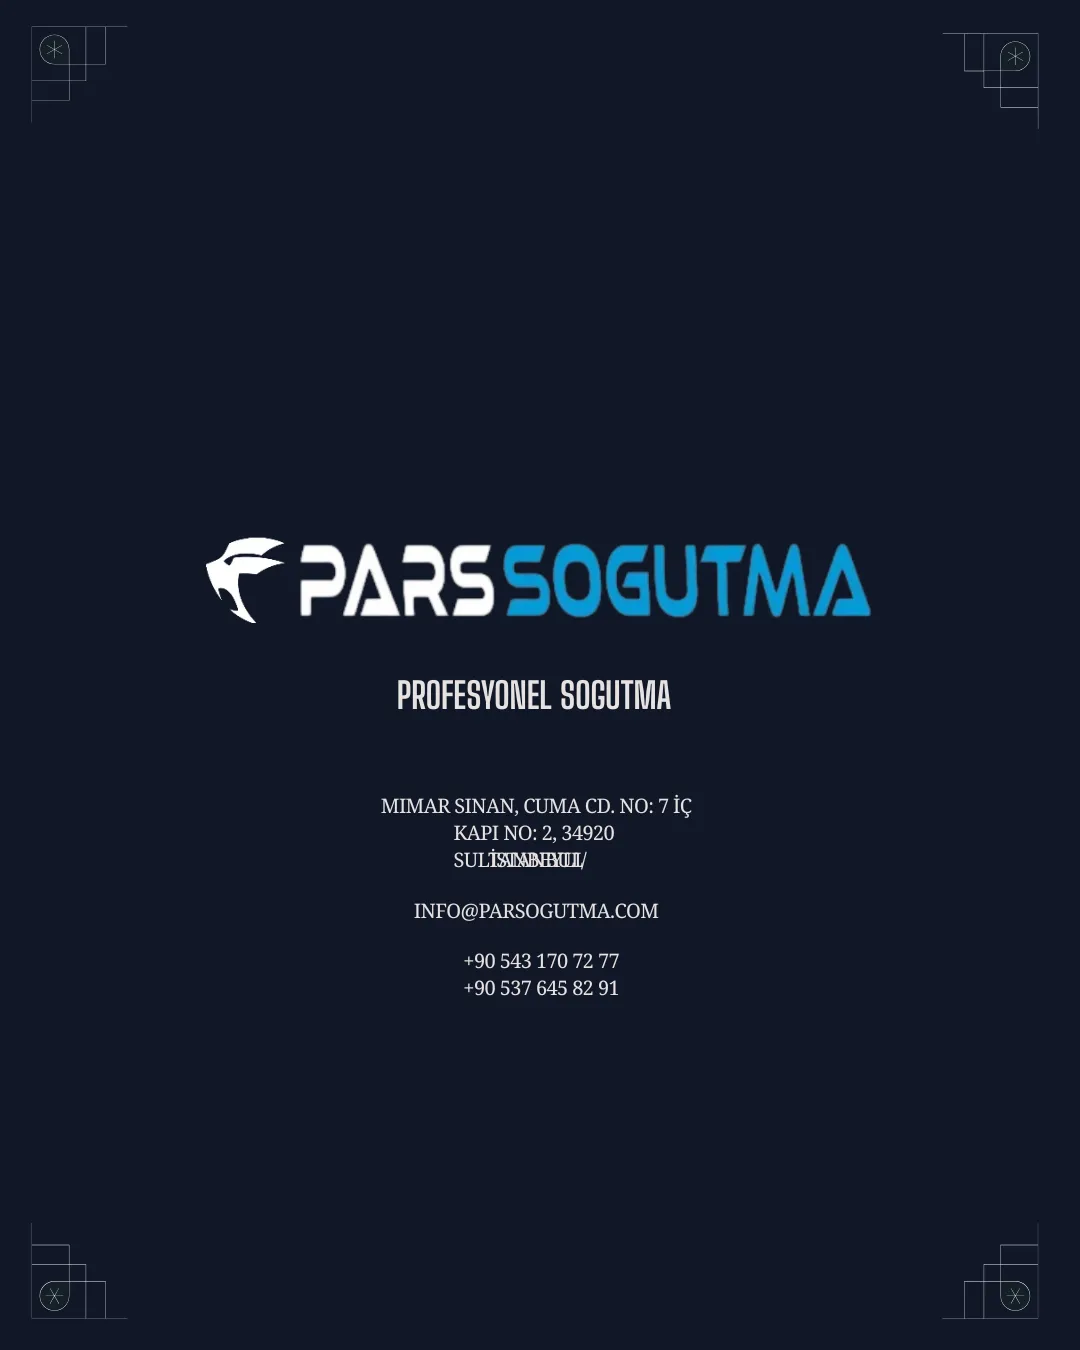
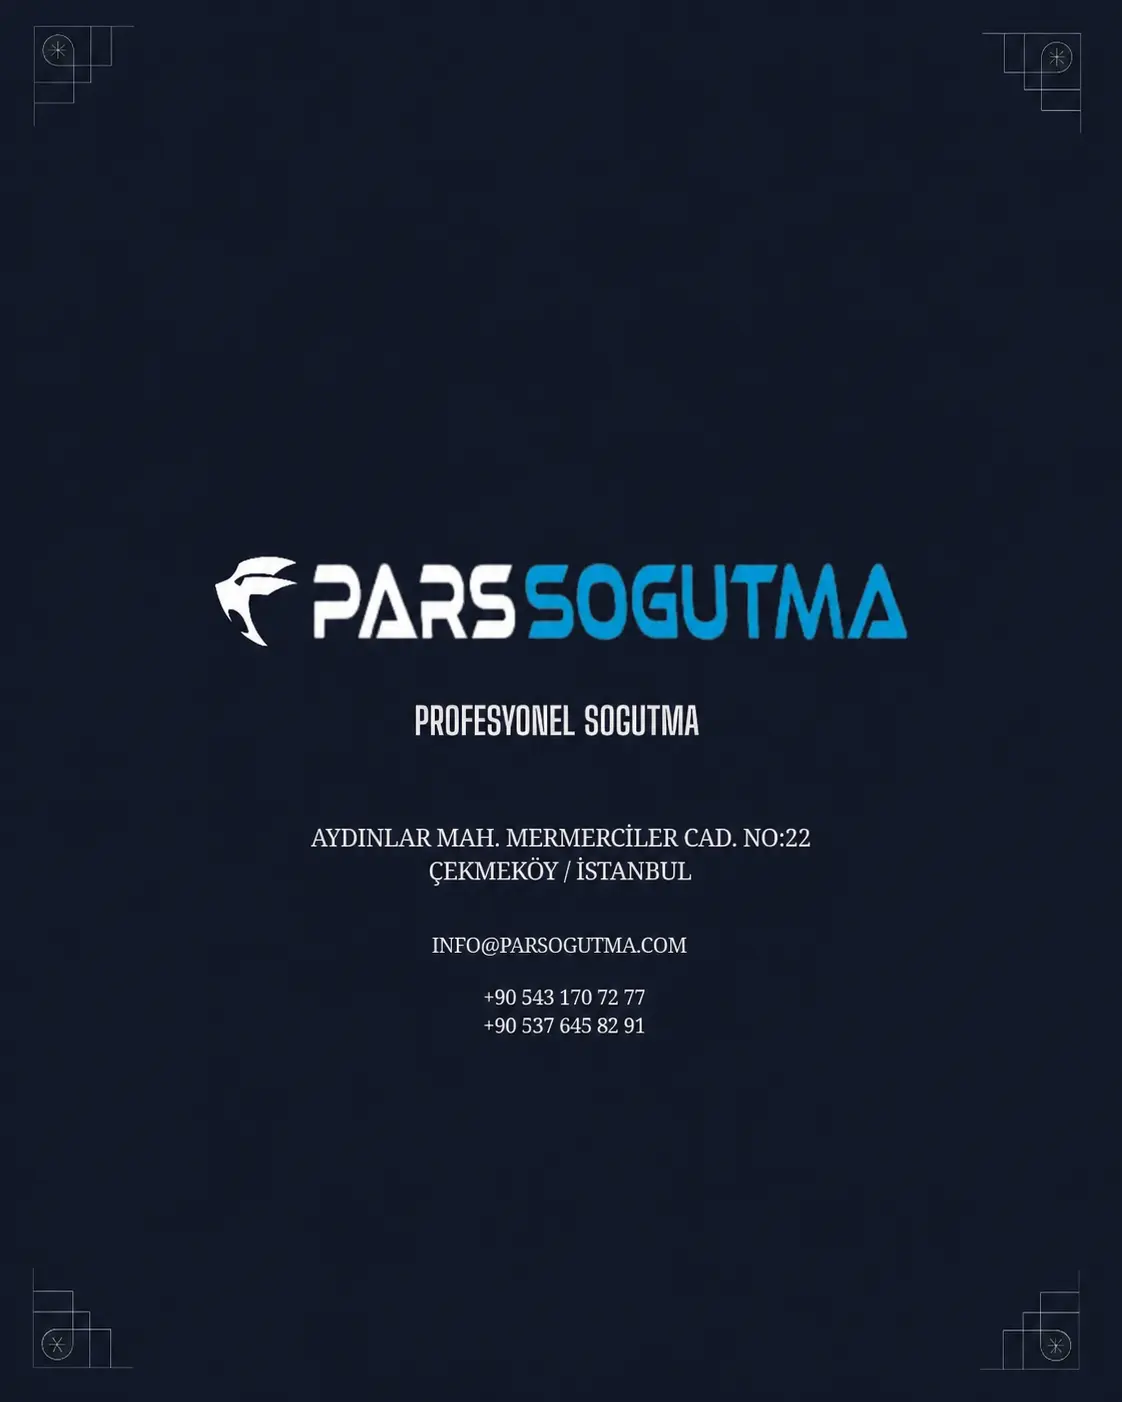
Refactor : Adress Change

diff --git a/src/pages/Contact.tsx b/src/pages/Contact.tsx
@@ -38,7 +38,7 @@ export default function Contact() {
                 {(
                     <iframe
                         title="Pars Soğutma Konum Haritası"
-                        src="https://www.google.com/maps/embed?pb=!1m14!1m8!1m3!1d895.3683344167697!2d29.269102942284555!3d40.989186053399436!3m2!1i1024!2i768!4f13.1!3m3!1m2!1s0x14cacf694dfd5897%3A0xcd8ea58029f9d9f!2sPars%20So%C4%9Futma%20Ekipmanlar%C4%B1%20Ltd.%20%C5%9Eti.!5e0!3m2!1str!2str!4v1743767405972!5m2!1str!2str"
+                        src="https://maps.google.com/maps?q=41.016620,29.236732&hl=tr&z=17&output=embed"
                         width="100%"
                         height="100%"
                         style={{ border: 0 }}
@@ -63,7 +63,7 @@ export default function Contact() {
                   {t('contact.headquarters')}
                 </span>
                                 <span className="flex-1 text-[10px] md:text-sm text-gray-600 dark:text-gray-300">
-                  : Mimar Sinan, Cuma Cd. No: 7 İç Kapı No: 2, 34920 Sultanbeyli/İstanbul
+                  : AYDINLAR MAH. MERMERCİLER CAD. NO:22 ÇEKMEKÖY / İSTANBUL
                 </span>
                             </div>
 

diff --git a/src/context/LanguageContext.tsx b/src/context/LanguageContext.tsx
@@ -311,7 +311,7 @@ const translations: Translations = {
     //FOOTER
 
     'pars.footer':{TR : '© 2025 — Tüm Hakları Pars Soğutma\'ya Aittir.', EN:'© 2025 — All Rights Reserved by Pars Cooling'},
-    'pars.footer.adress':{TR:'Mimar Sinan, Cuma Cd. No: 7 İç Kapı No: 2, 34920 Sultanbeyli/İstanbul', EN:'Mimar Sinan, Cuma Cd. No: 7 Inner Door No: 2, 34920 Sultanbeyli/Istanbul'},
+    'pars.footer.adress':{TR:'AYDINLAR MAH. MERMERCİLER CAD. NO:22 ÇEKMEKÖY / İSTANBUL', EN:'AYDINLAR MAH. MERMERCILER CAD. NO:22 CEKMEKOY / ISTANBUL'},
     'pars.footer.contact':{TR:' İletişim Bilgilerimiz',EN:' Contact Information'},
     'pars.footer.verticalTypeRefrigeratedCounters': {TR: 'Dikey Tip Soğutuculu Reyonlar', EN : 'Vertical Type Refrigerated Counters'},
     'pars.footer.wallMountedRefrigeratedCounters':{TR:'Duvar Tipi Soğutuculu Reyonlar',EN :'Wall Mounted Refrigerated Counters'},
